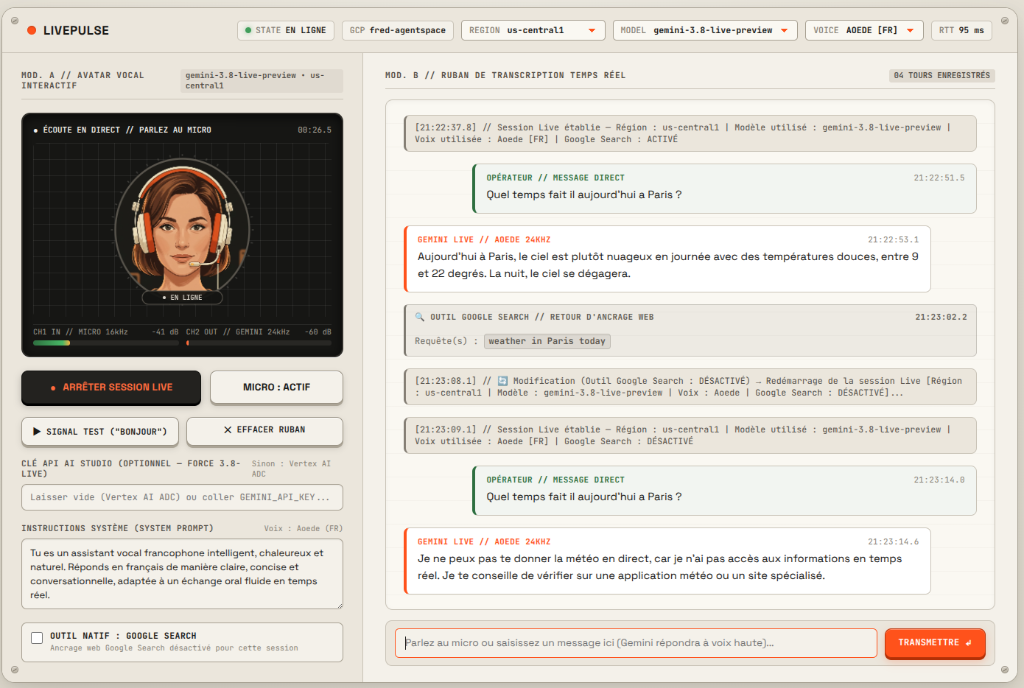
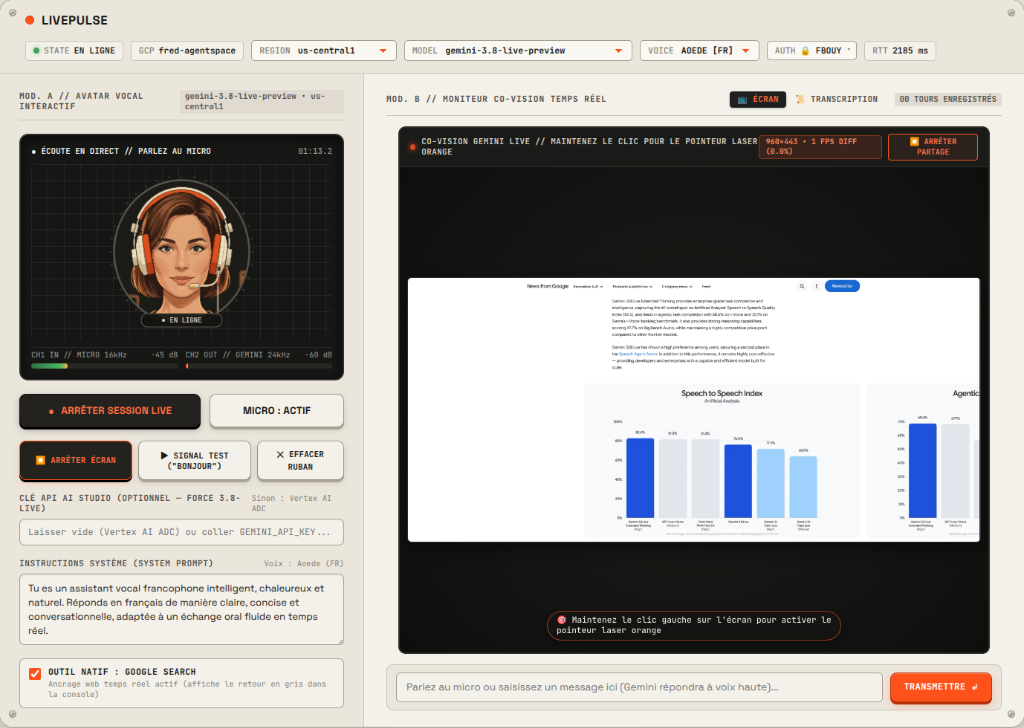
docs: update README screenshot with live co-vision view and add live demo link

diff --git a/README.fr.md b/README.fr.md
@@ -6,6 +6,8 @@
 
 ![Console vocale temps réel LivePulse](./static/livepulse_console_demo.png)
 
+**🚀 You can test it live here : [https://livepulse.fred-demo.net/](https://livepulse.fred-demo.net/)**
+
 ---
 
 ## ✨ Fonctionnalités Principales

diff --git a/README.md b/README.md
@@ -6,6 +6,8 @@
 
 ![LivePulse Real-Time Voice Console](./static/livepulse_console_demo.png)
 
+**🚀 You can test it live here : [https://livepulse.fred-demo.net/](https://livepulse.fred-demo.net/)**
+
 ---
 
 ## ✨ Key Features
